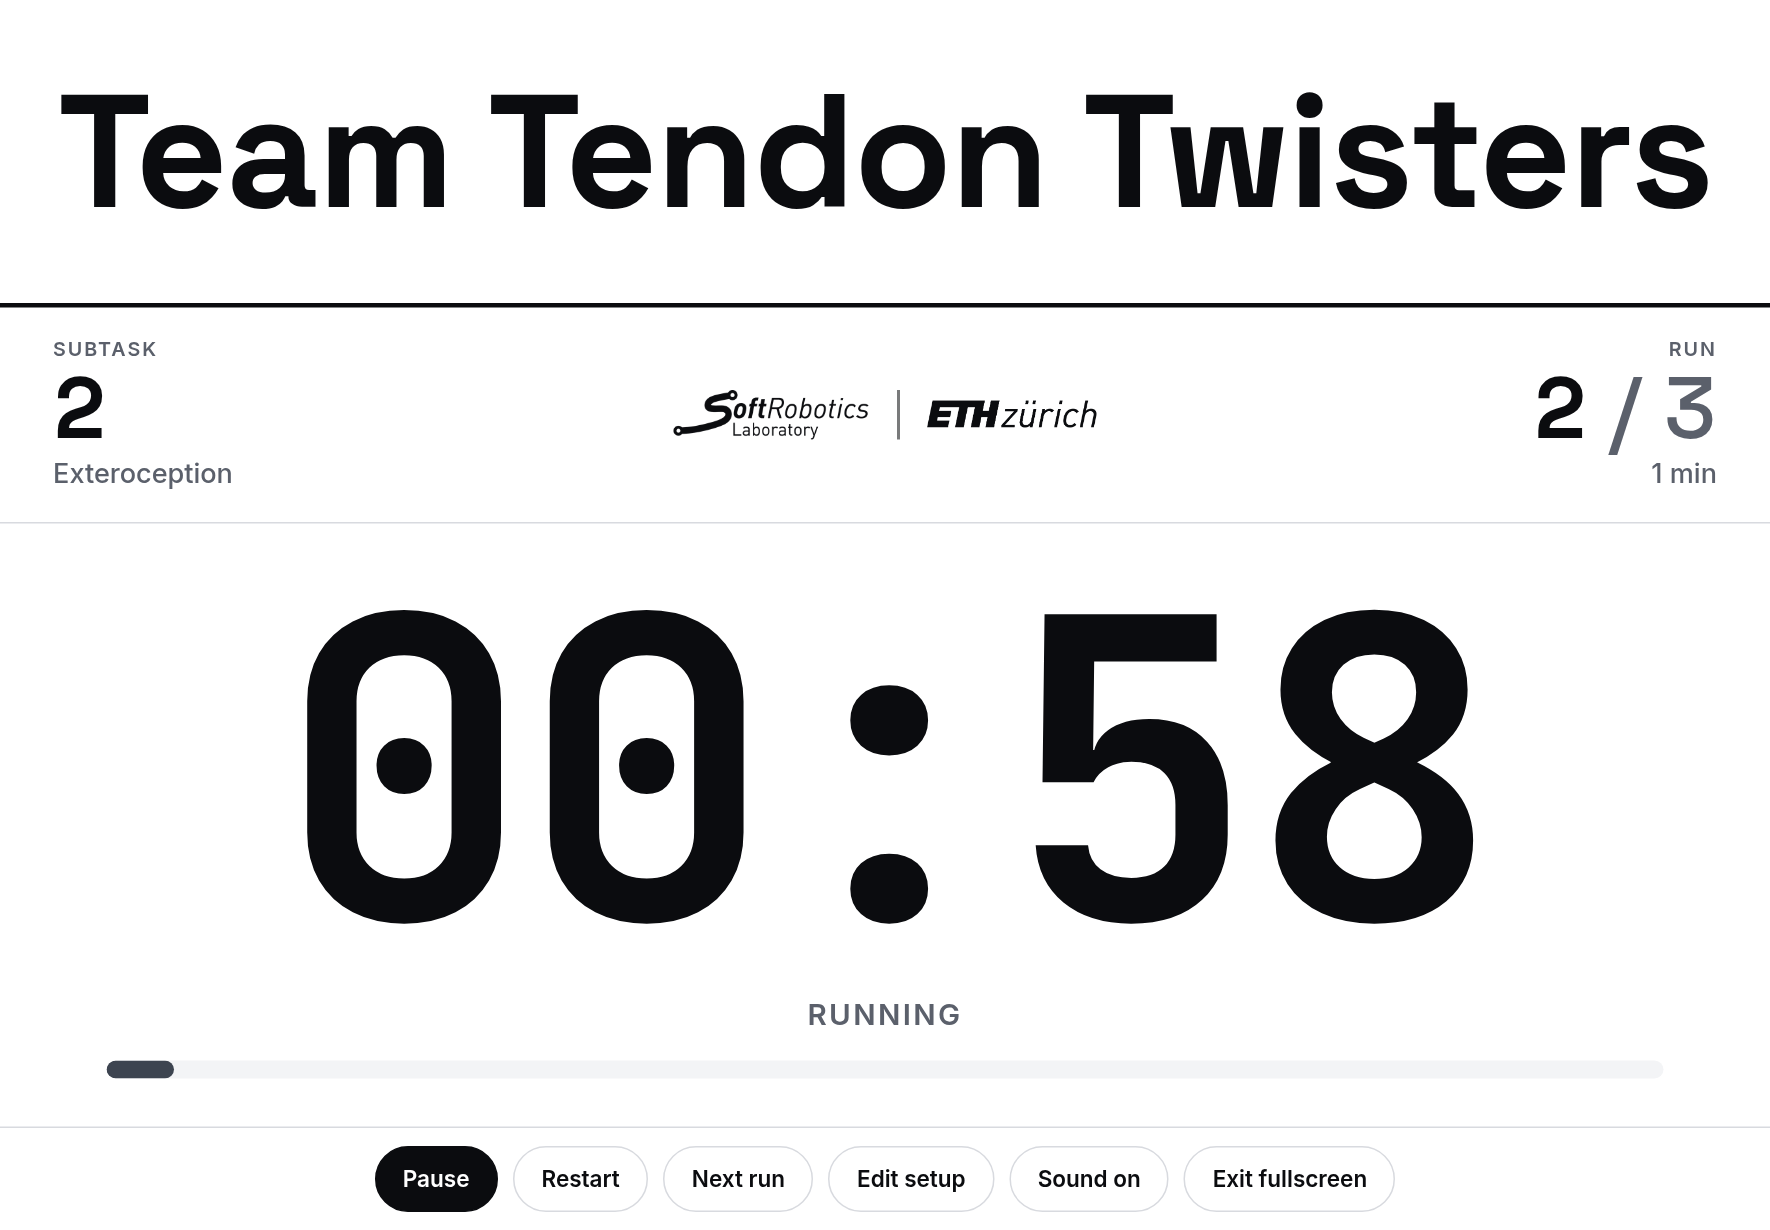
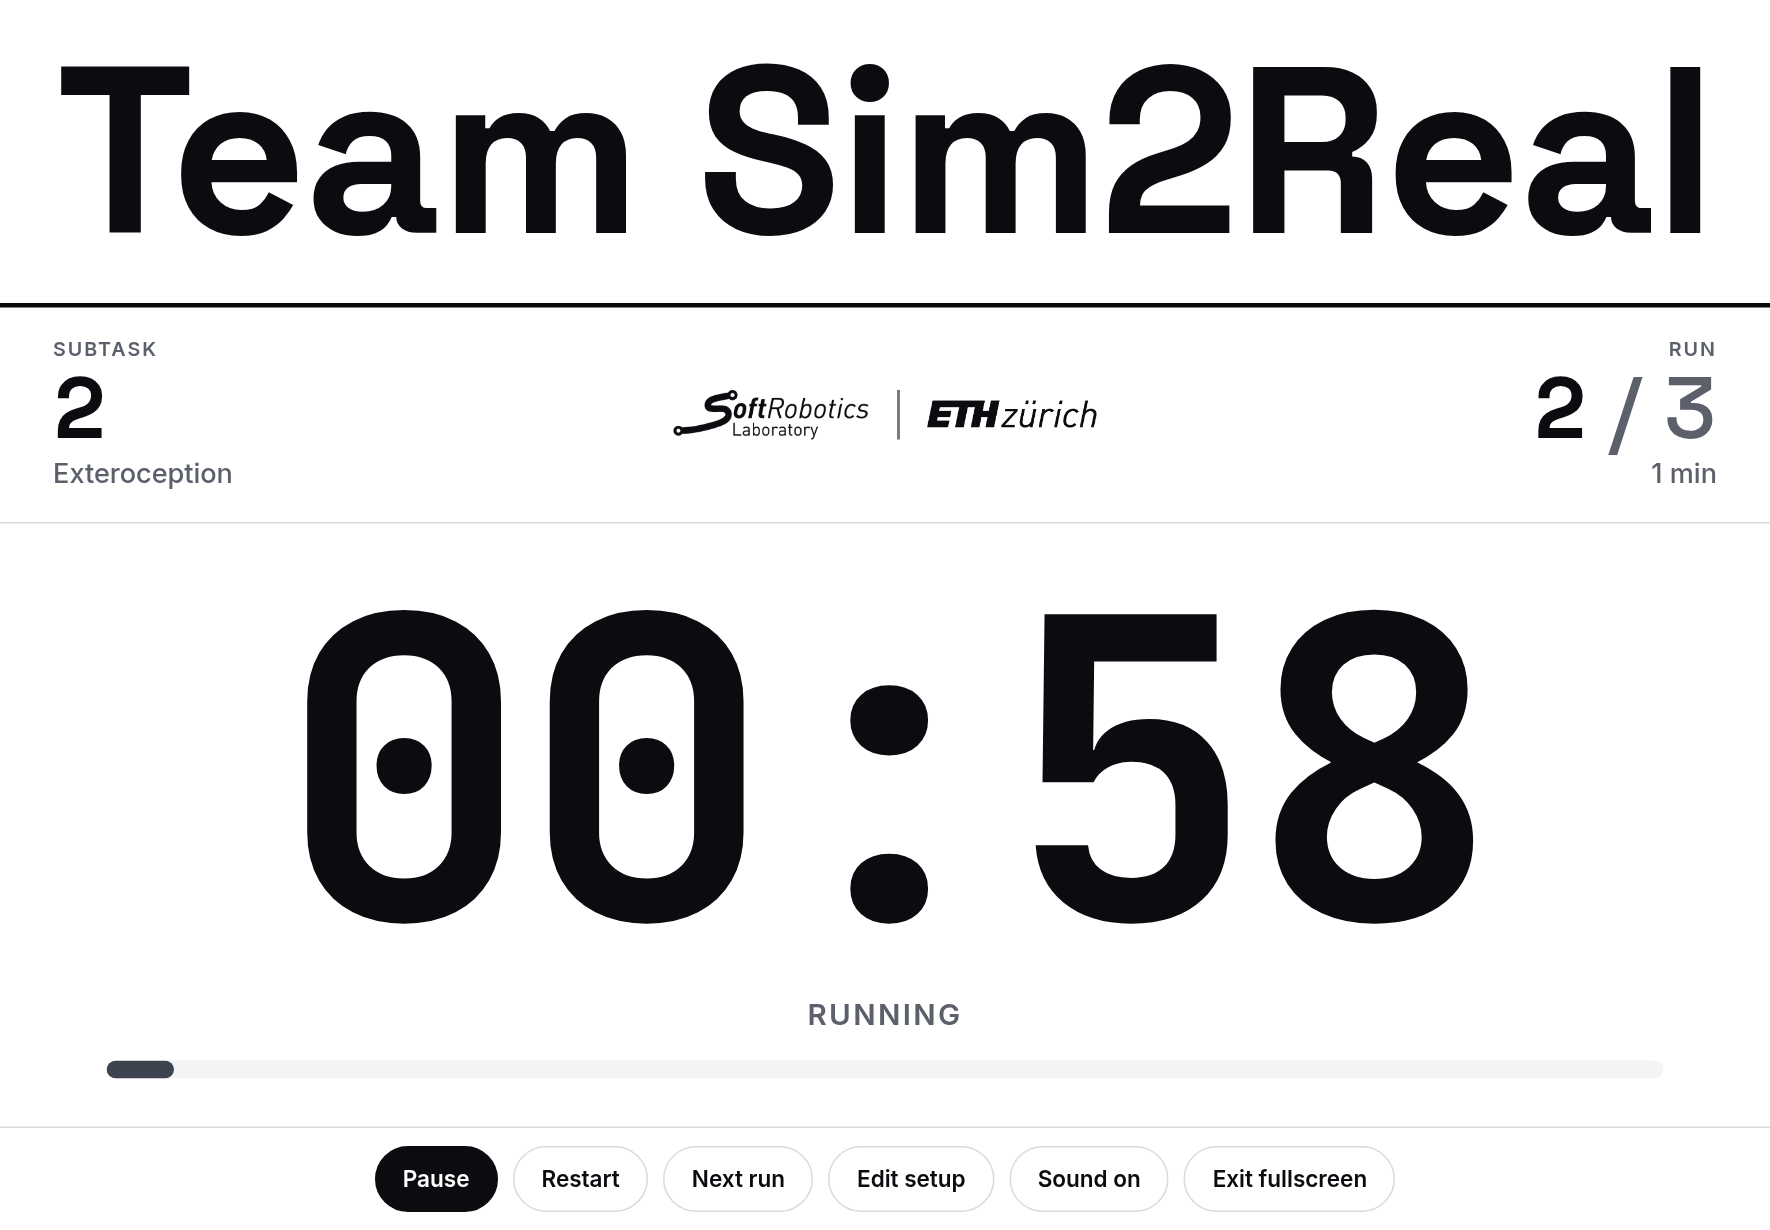
modify readme

Changed region(s): [[0.0311, 0.0309, 0.9633, 0.2163]]

diff --git a/README.md b/README.md
@@ -4,18 +4,27 @@ Full-screen run timer for the Real World Robotics Task 1 Showcase Day.
 
 **Open:** https://vikashj21.github.io/rwr_timer/
 
-<p>
-  <img src="docs/setup.png" alt="Setup page" width="49%">
-  <img src="docs/run.png" alt="Run page" width="49%">
-</p>
+<table>
+  <tr>
+    <th width="50%">Setup page</th>
+    <th width="50%">Run page</th>
+  </tr>
+  <tr>
+    <td align="center" valign="top"><img src="docs/setup.png" alt="Setup page" width="100%"></td>
+    <td align="center" valign="top"><img src="docs/run.png" alt="Run page" width="100%"></td>
+  </tr>
+  <tr>
+    <td align="center">Enter the team, subtask, run and timer</td>
+    <td align="center">Team name, subtask, run and the countdown</td>
+  </tr>
+</table>
 
 ## How to use
 
 1. Enter the team name.
 2. Pick the subtask, run and timer. You can also tick 'Countdown before start'.
-3. Press **Start run**.
+3. Press 'Start run'.
 
-On an iPad, add the page to the Home Screen (Safari: Share → Add to Home Screen) for a true full screen.
 
 ## Keys on the run page
 
